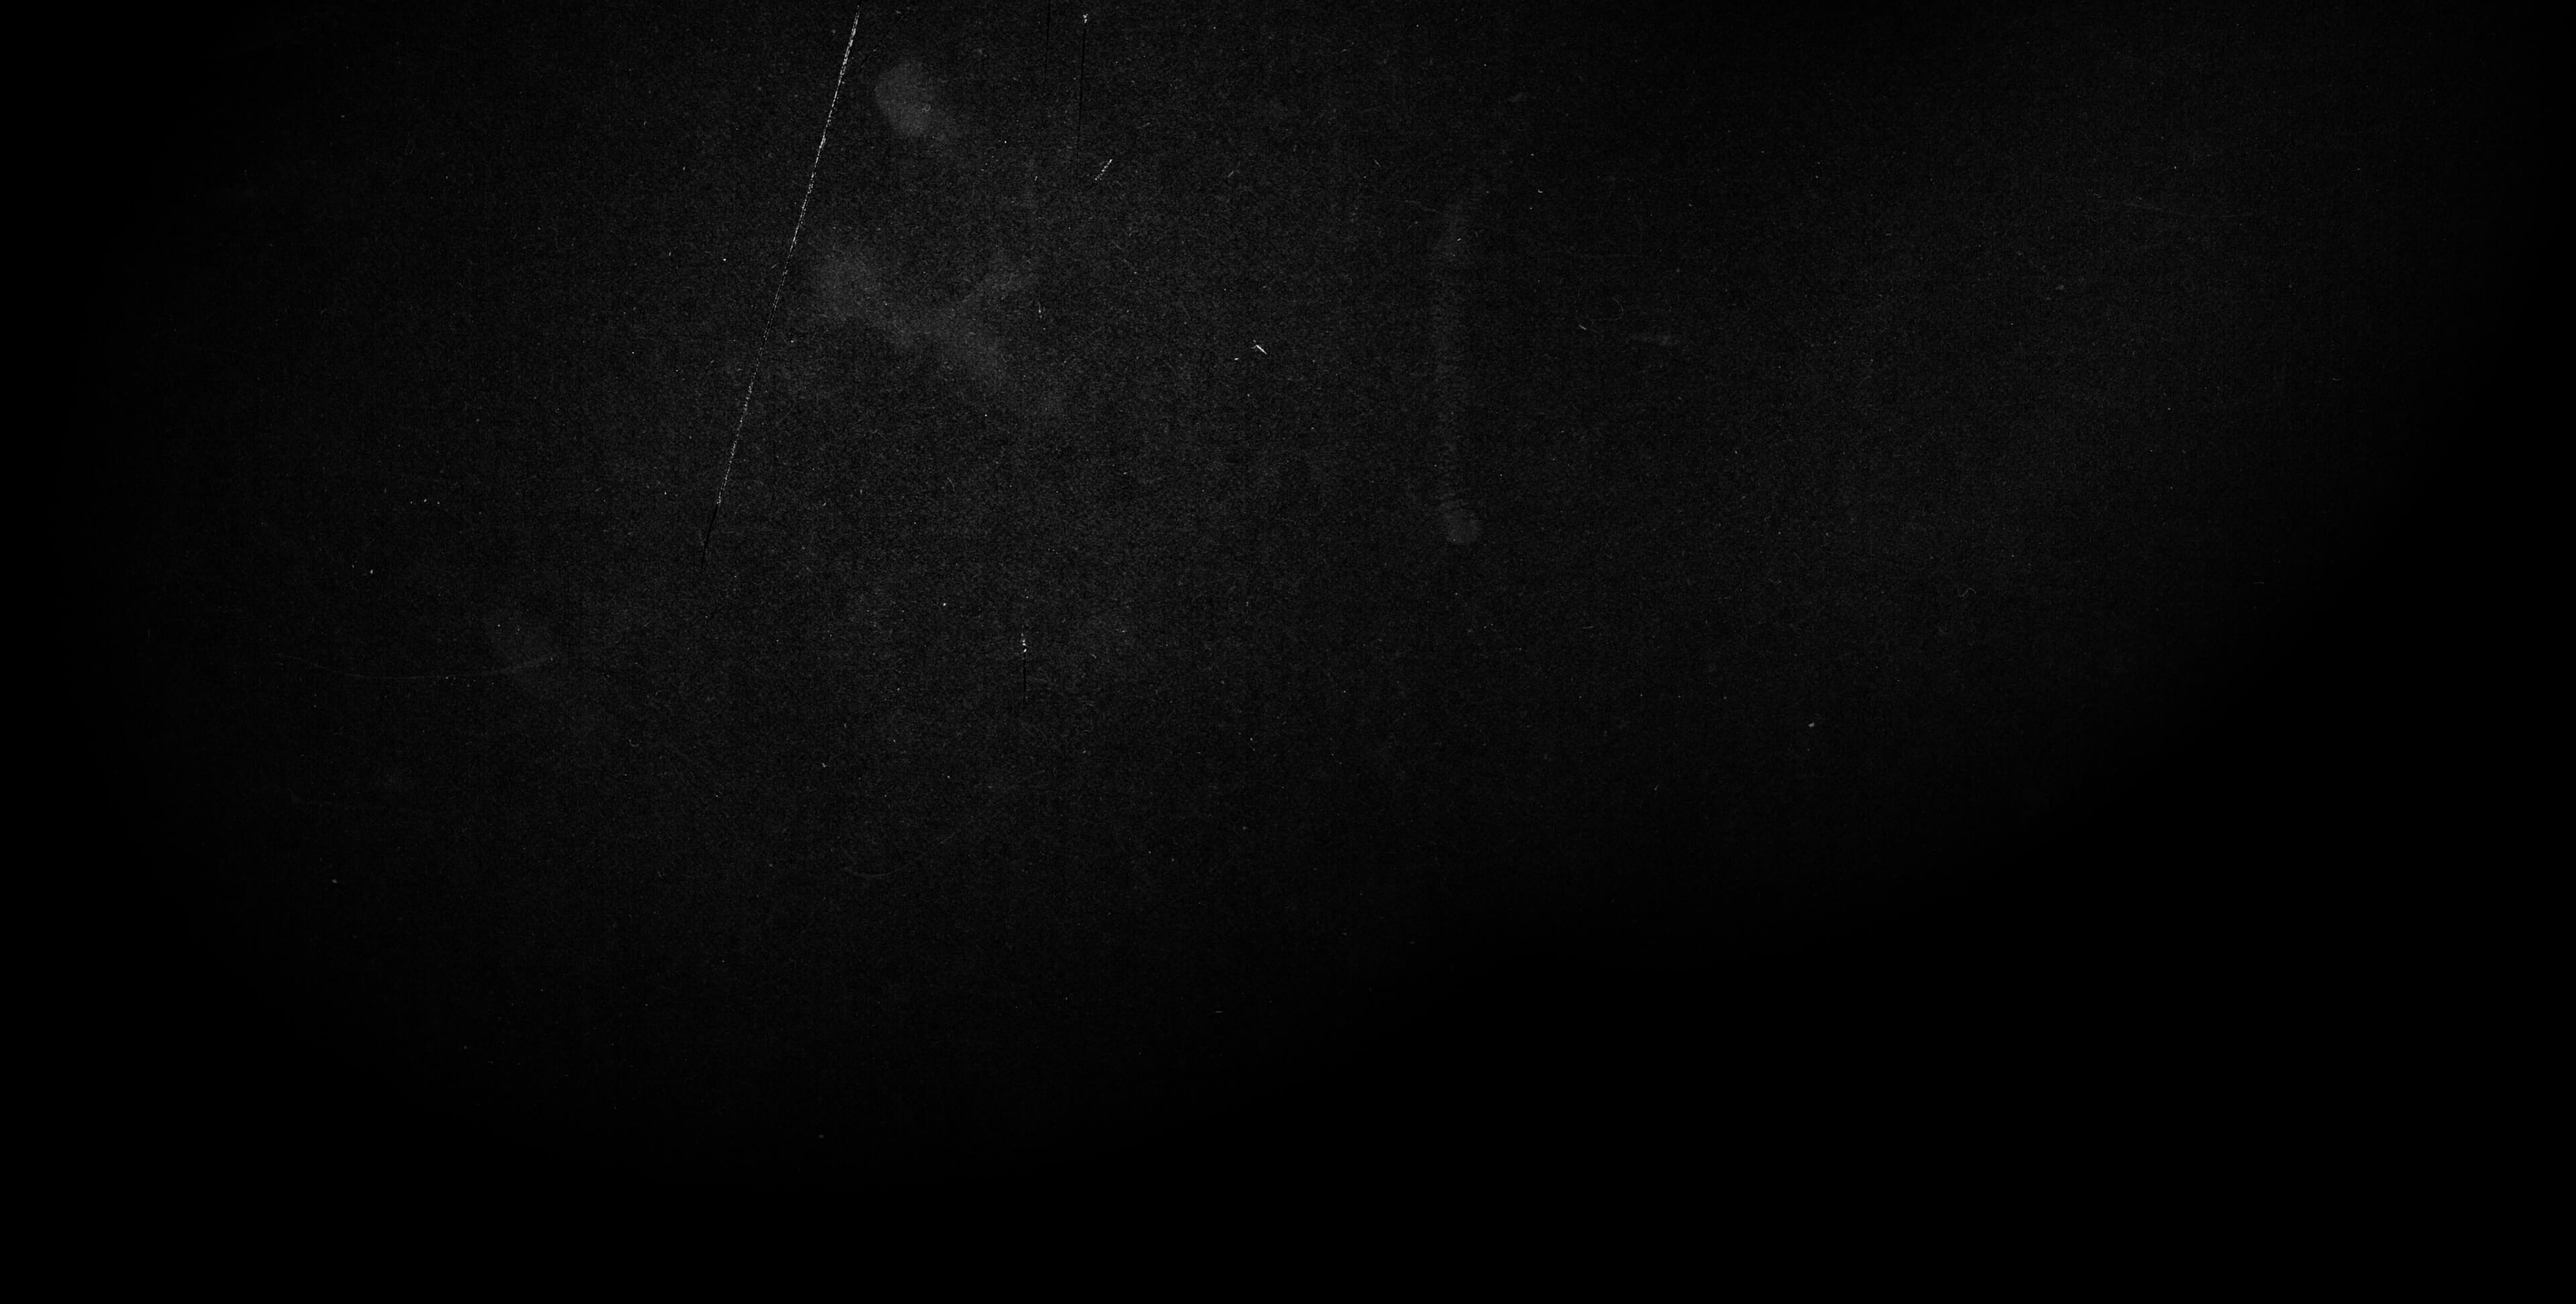
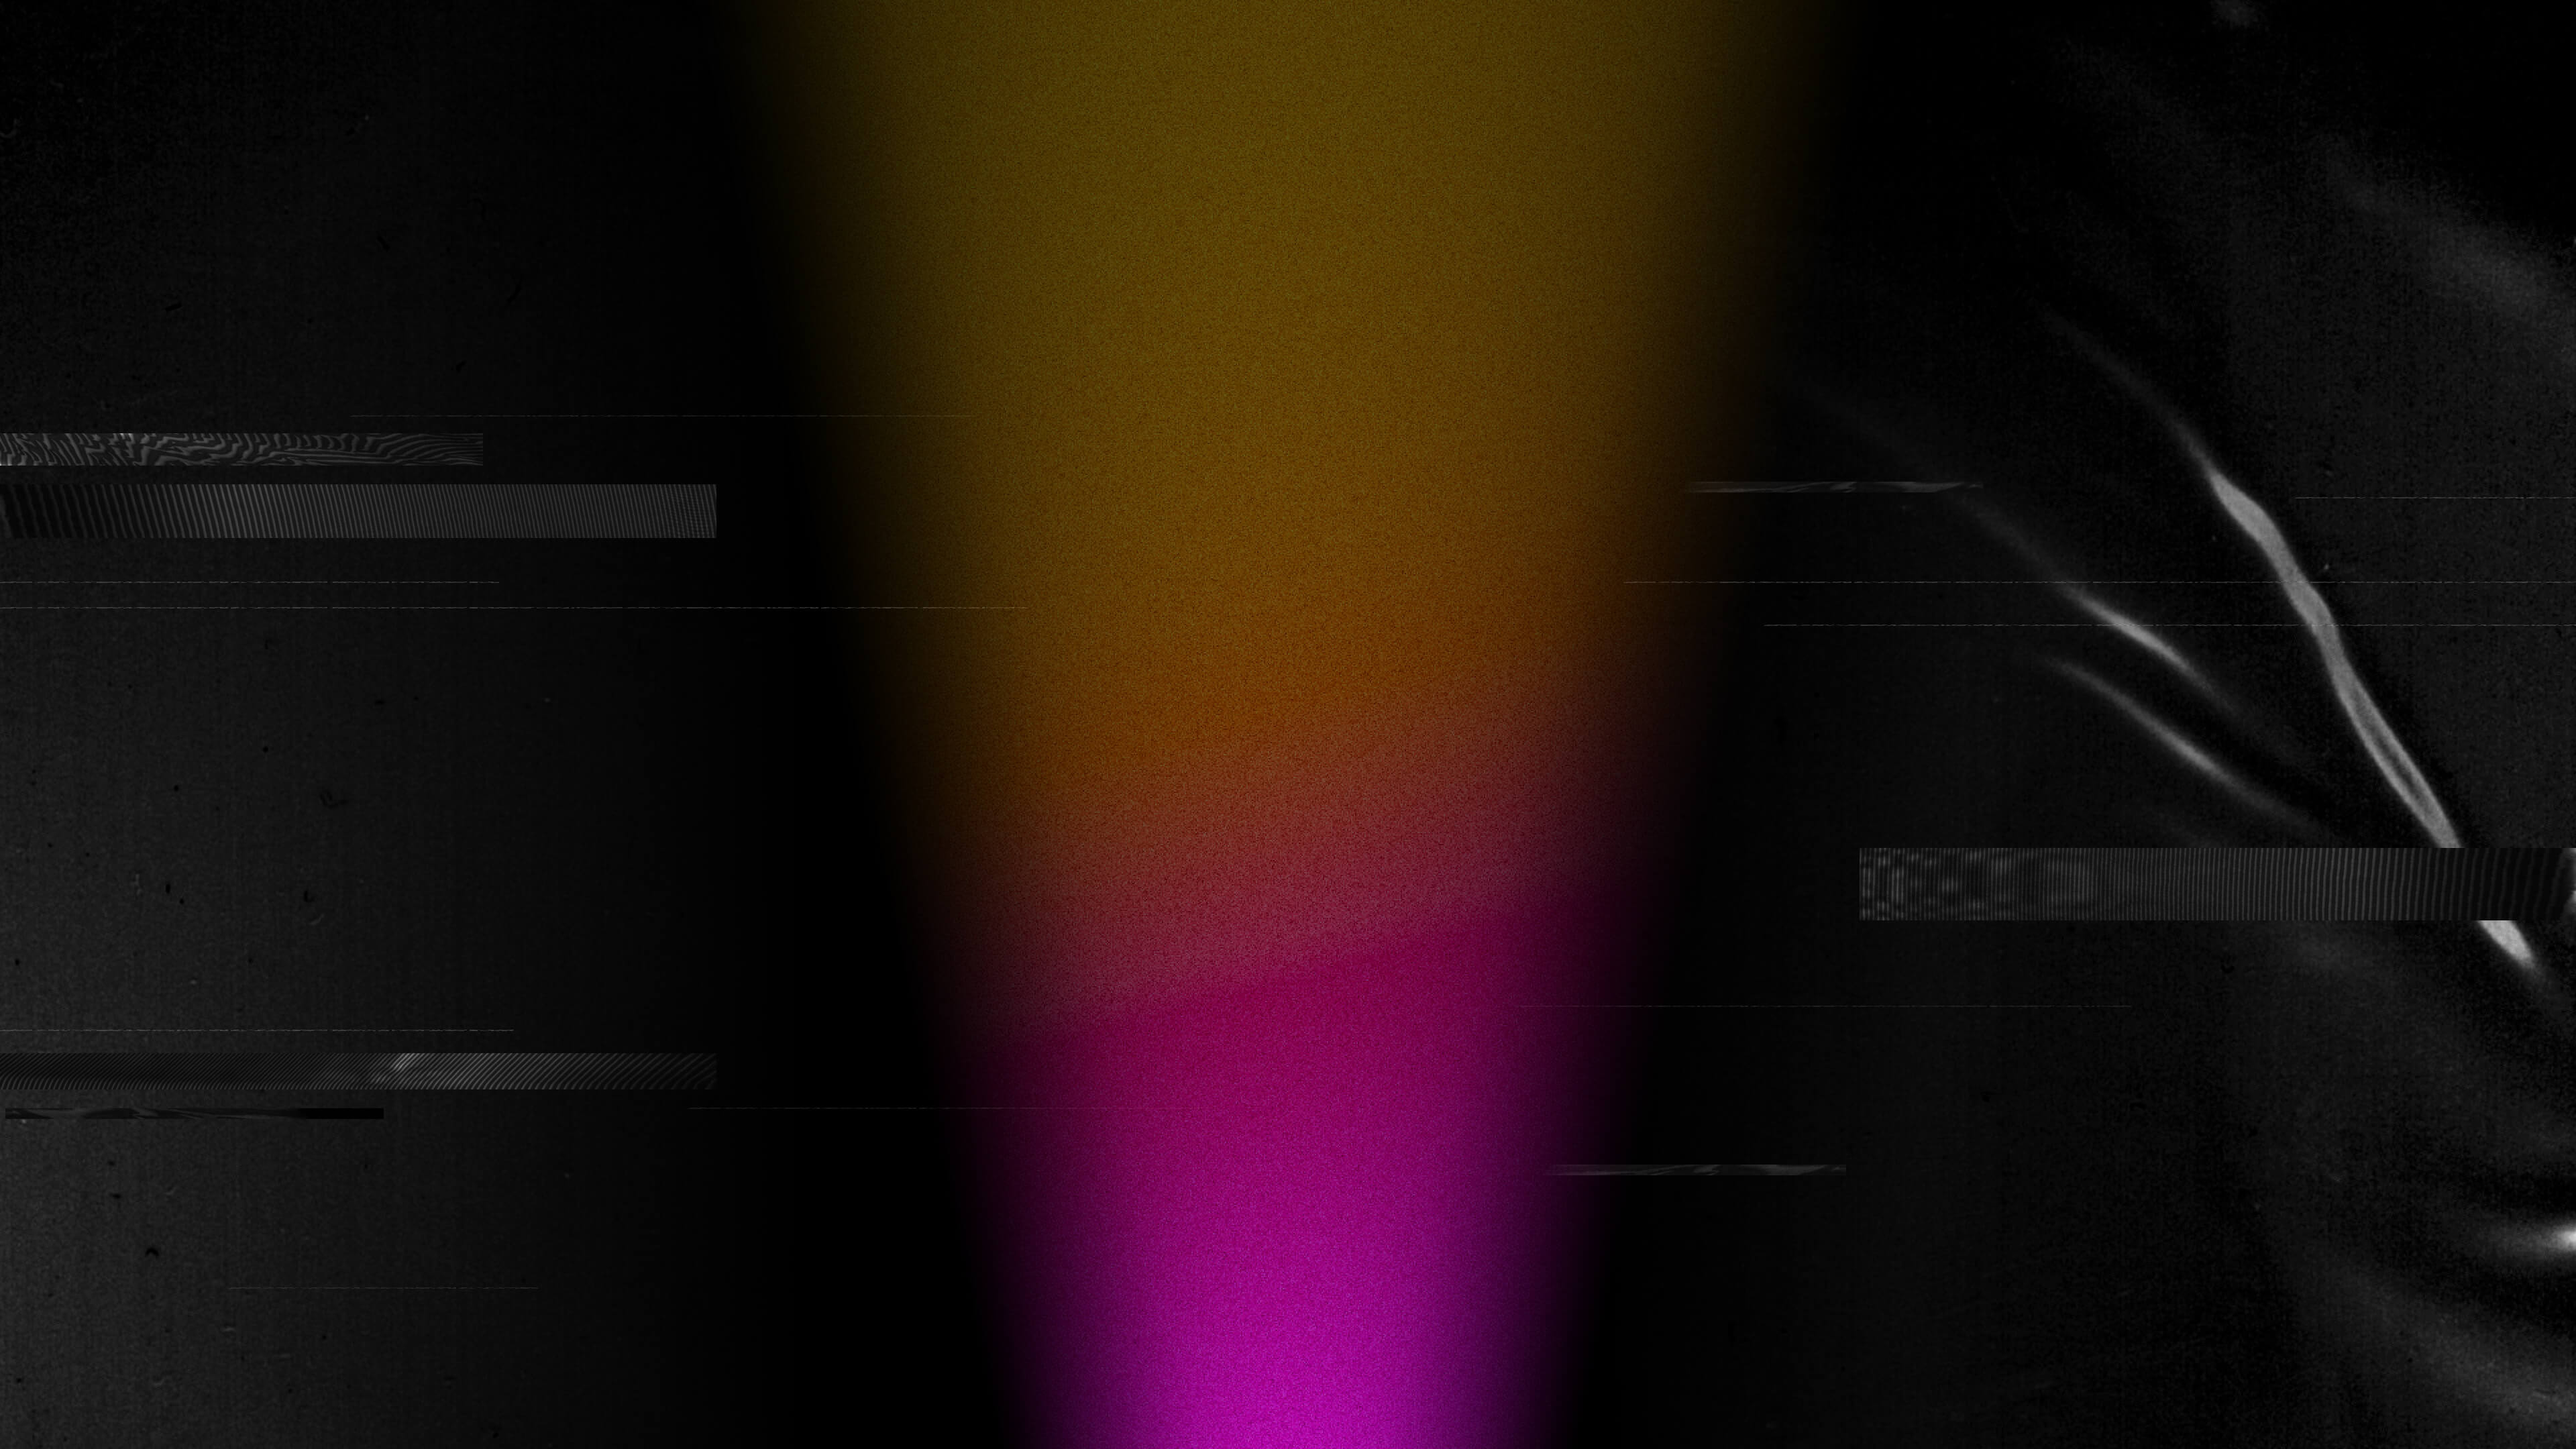
feat: update the design for the Thank You page

diff --git a/src/components/pages/thank-you/hero/hero.jsx b/src/components/pages/thank-you/hero/hero.jsx
@@ -1,56 +1,56 @@
 import Image from 'next/future/image';
+import Link from 'next/link';
 import React from 'react';
 
-import bgLeftGlitch from './images/bg-left-glitch.png';
-import bgRightGlitch from './images/bg-right-glitch.png';
 import bg from './images/bg.jpg';
+import TwitterIcon from './images/twitter.inline.svg';
 
-const title = 'Thank you!';
+const title = '>>Thank you!';
 const description = "We'll contact you shortly by email and send detailed instructions";
 
 const Hero = () => (
-  <section className="safe-paddings relative py-[244px] sm:py-32">
-    <div className="container relative z-10 flex flex-col items-center">
-      <h1
-        className="font-['Bugfast'] text-[138px] leading-none md:text-[105px] sm:text-[14vw]"
-        style={{
-          textShadow: '-2px -2px 0px #00FFFF, 2px 2px 0px #AA00FF',
-        }}
-      >
+  <section className="safe-paddings relative h-screen min-h-[600px]">
+    <div className="container relative z-10 flex h-full flex-col items-center justify-center">
+      <h1 className="font-mono text-xl font-bold uppercase leading-tight lg:text-[50px] md:text-[40px] xs:text-[32px]">
         {title}
       </h1>
-      <p className="mx-auto mt-12 max-w-[716px] text-center text-lg sm:mt-10 sm:text-base">
-        {description}
-      </p>
+      <p className="mt-10 text-center text-lg sm:mt-6 sm:text-base">{description}</p>
+      <Link href="/" passHref>
+        <a
+          className="cta-btn-animation relative mt-10 flex h-[60px] max-w-full items-center justify-center leading-none sm:mt-6"
+          href="/"
+        >
+          <svg
+            className="cta-btn-animation-border xs:w-full"
+            width="268"
+            height="59"
+            viewBox="0 0 268 59"
+            fill="none"
+          >
+            <path d="M1 58V1H251.586L267 16.4142V58H1Z" stroke="white" strokeWidth="2" />
+          </svg>
+
+          <div className="absolute inset-0 flex items-center justify-center space-x-2.5">
+            <span className="text-lg sm:text-[18px]">Back to Homepage</span>
+          </div>
+        </a>
+      </Link>
+
+      <div className="absolute bottom-20 flex flex-col items-center md:bottom-12">
+        <span className="font-mono uppercase">Follow us</span>
+        <Link href="https://twitter.com/HackSquadDev" passHref>
+          <a className="group mt-5" href="https://twitter.com/HackSquadDev">
+            <TwitterIcon className="h-[26px] transition-opacity duration-200 group-hover:opacity-80" />
+          </a>
+        </Link>
+      </div>
     </div>
 
     <Image
-      className="absolute top-0 left-1/2 min-w-[1920px] -translate-x-1/2 md:min-w-[1540px]"
+      className="absolute top-0 left-1/2 min-h-screen w-full min-w-[1920px] -translate-x-1/2 md:min-w-[1230px]"
       src={bg}
       width={1920}
-      height={972}
-      loading="eager"
-      alt=""
-      priority
-      aria-hidden
-    />
-
-    <Image
-      className="absolute left-0 top-[16.4%] xl:left-[-20%] lg:left-[-40%] md:left-[-60%]"
-      src={bgLeftGlitch}
-      width={779}
-      height={343}
-      loading="eager"
-      alt=""
-      priority
-      aria-hidden
-    />
-
-    <Image
-      className="absolute right-0 top-[22.8%] xl:right-[-20%] lg:right-[-40%] md:right-[-60%]"
-      src={bgRightGlitch}
-      width={892}
-      height={364}
+      height={1080}
       loading="eager"
       alt=""
       priority

diff --git a/src/pages/thank-you.jsx b/src/pages/thank-you.jsx
@@ -2,7 +2,7 @@ import Hero from 'components/pages/thank-you/hero';
 import LayoutMain from 'layouts/layouts/layout-main';
 
 const ThankYou = () => (
-  <LayoutMain>
+  <LayoutMain withoutFooter>
     <Hero />
   </LayoutMain>
 );
